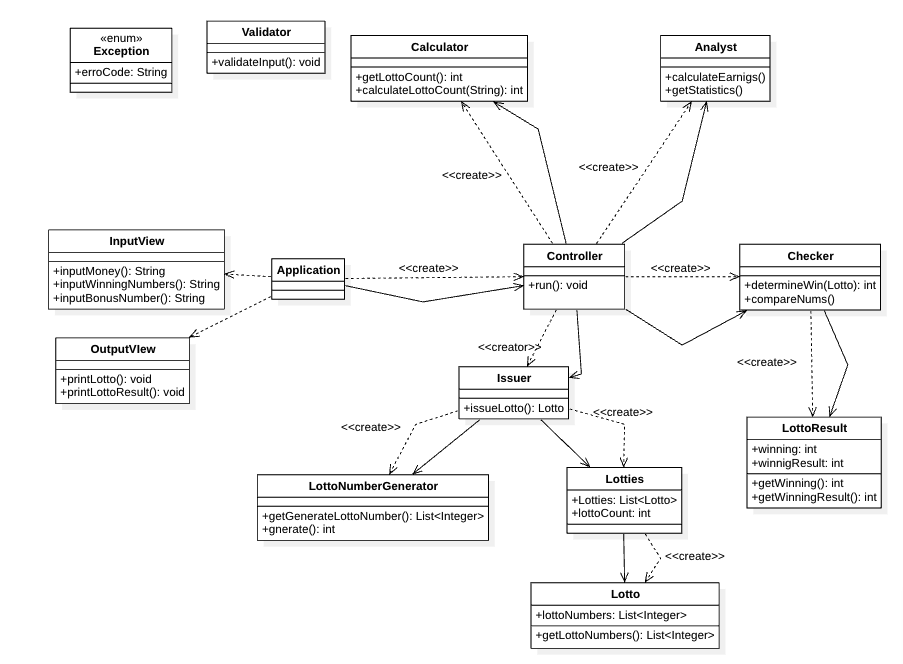
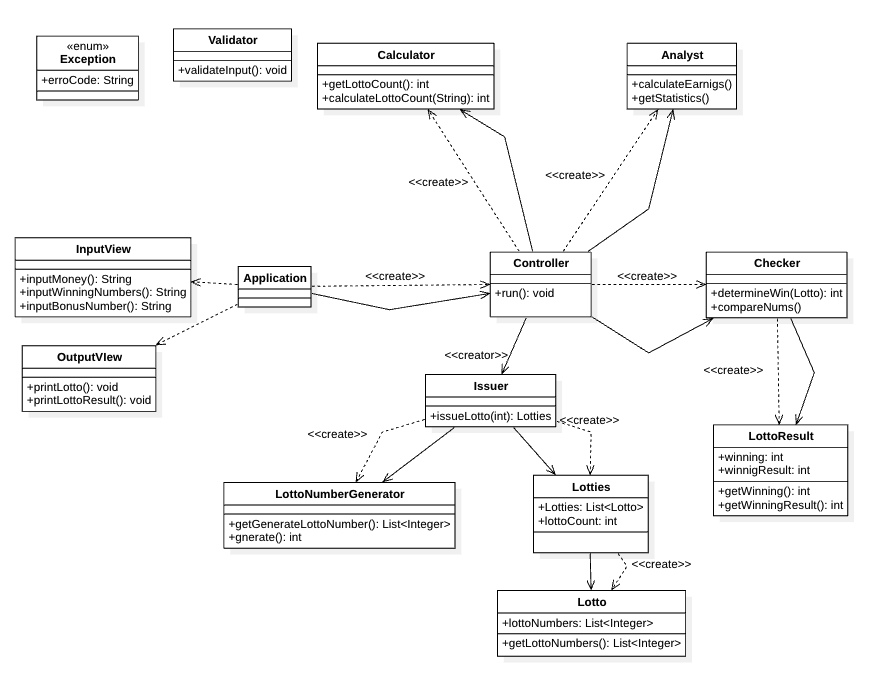
docs(imgae): classDiagram 사진 변경

diff --git a/src/main/java/lotto/model/Lotto.java b/src/main/java/lotto/model/Lotto.java
@@ -1,0 +1,38 @@
+package lotto.model.vo;
+
+import java.util.HashSet;
+import java.util.List;
+import java.util.Set;
+
+public class Lotto {
+    private final List<Integer> numbers;
+
+    public Lotto(List<Integer> numbers) {
+        validate(numbers);
+        this.numbers = numbers;
+    }
+
+    public List<Integer> getLottoNumbers() {
+        return numbers;
+    }
+
+    private void validate(List<Integer> numbers) {
+        if (numbers.size() != 6) {
+            throw new IllegalArgumentException("[ERROR] 로또 번호는 6개여야 합니다.");
+        }
+        if (!isDuplicate(numbers)) {
+            throw new IllegalArgumentException("[ERROR] 로또 번호가 중복 입력되었습니다.");
+        }
+    }
+
+    private boolean isDuplicate(List<Integer> numbers) {
+        Set<Integer> set = new HashSet<>();
+        for (int number : numbers) {
+            if (set.contains(number)) {
+                return false;
+            }
+            set.add(number);
+        }
+        return true;
+    }
+}
